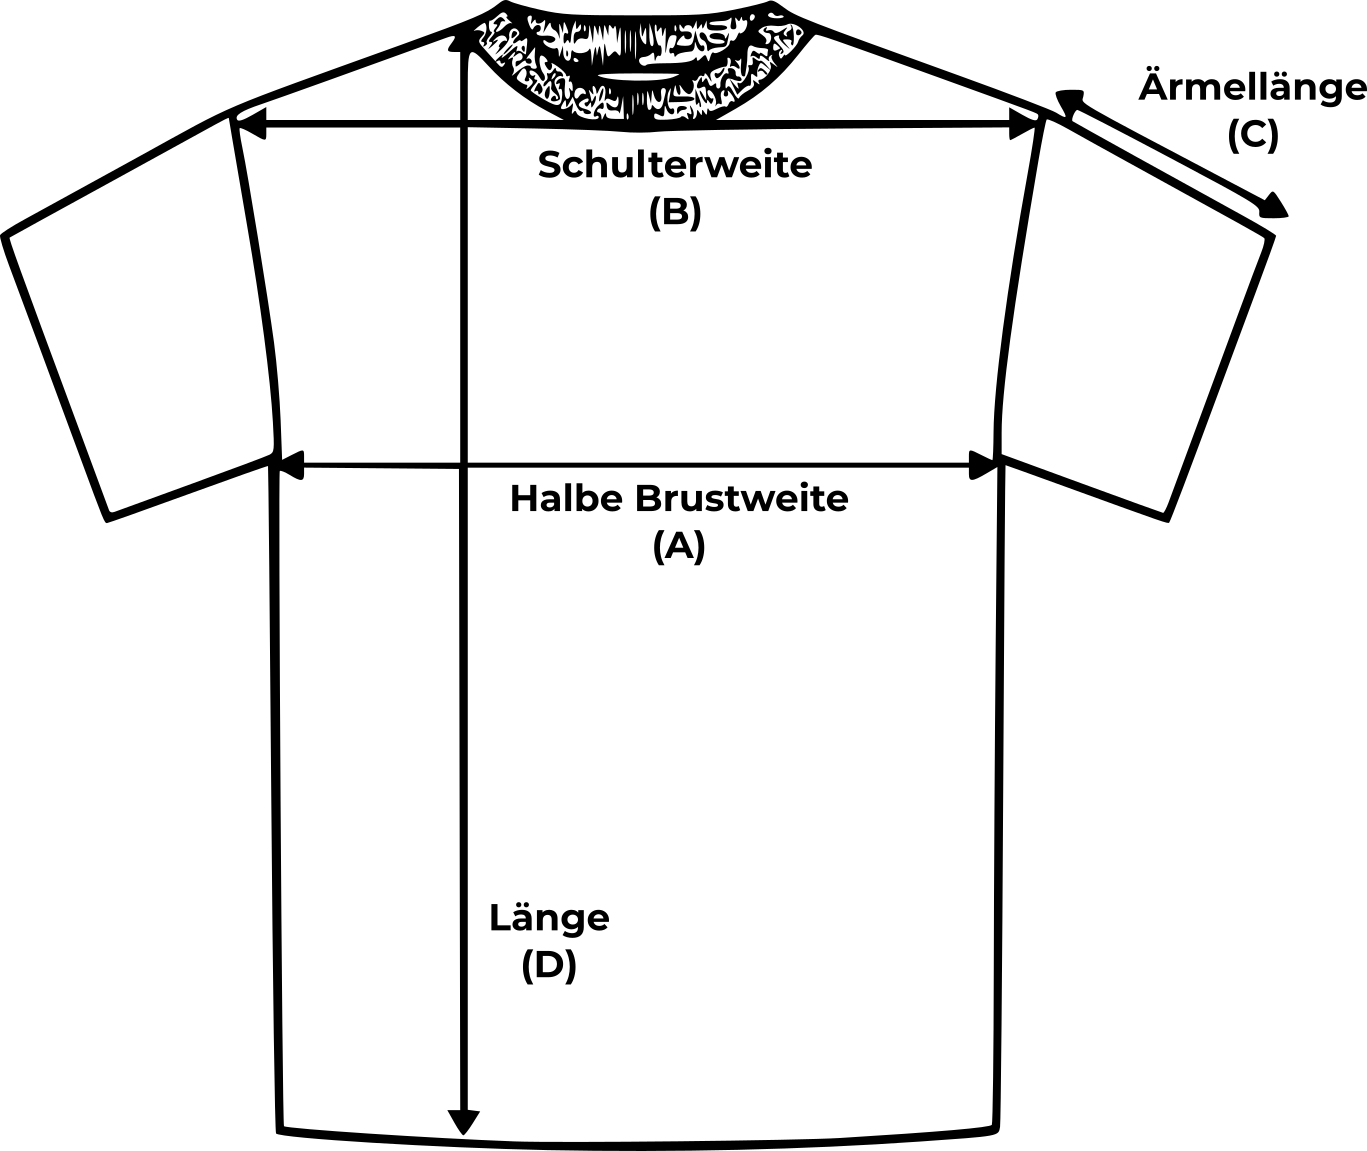
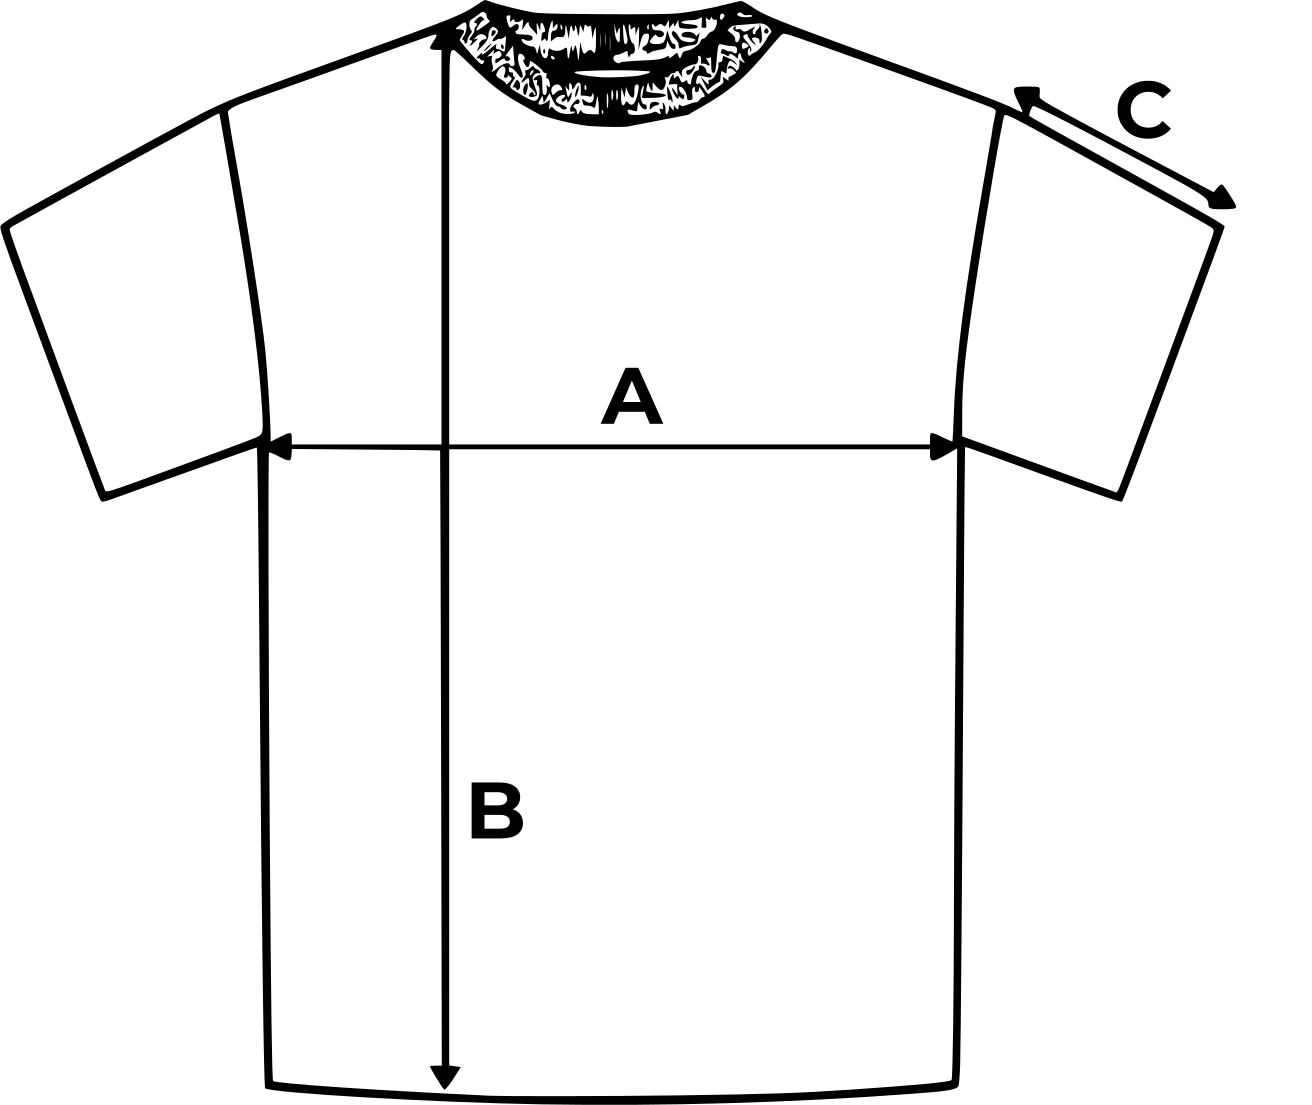
Shirts

diff --git a/_site/index.html b/_site/index.html
@@ -170,7 +170,7 @@
     							<li class="elementor-icon-list-item">
     											<a href="https://www.rewe.de/marktseite/augsburg/461642/rewe-markt-jakoberwallstrasse-9-11/" target="_blank">
 
-    										<span class="elementor-icon-list-text">REWE Gesell | Jakoberwallstraße 9-11, 86153 Augsburg&nbsp;| Work Export &nbsp; &nbsp;</span>
+    										<span class="elementor-icon-list-text">REWE Reincke | Jakoberwallstraße 9-11, 86153 Augsburg&nbsp;| Work Export &nbsp; &nbsp;</span>
     											</a>
     									</li>
     								<li class="elementor-icon-list-item">
@@ -215,12 +215,12 @@
         }
       </style>
       <table class="tableizer-table">
-      <thead><tr class="tableizer-firstrow"><th>Größe</th><th>Brust (A)</th><th>Schulter (B)</th><th>Ärmel (C)</th><th>Länge (D)</th></tr></thead><tbody>
-       <tr><td>S</td><td>54 cm</td><td>54 cm</td><td>20,5 cm</td><td>72,5 cm</td></tr>
-       <tr><td>M</td><td>58 cm</td><td>56 cm</td><td>21 cm</td><td>74 cm</td></tr>
-       <tr><td>L</td><td>62 cm</td><td>58 cm</td><td>21,5 cm</td><td>75,5 cm</td></tr>
-       <tr><td>XL</td><td>66 cm</td><td>60 cm</td><td>22 cm</td><td>77 cm</td></tr>
-       <tr><td>XXL</td><td>70 cm</td><td>62 cm</td><td>22,5 cm</td><td>78,5 cm</td></tr>
+      <thead><tr class="tableizer-firstrow"><th>Größe</th><th>Brust (A)</th><th>Länge (B)</th><th>Ärmel (C)</th></tr></thead><tbody>
+       <tr><td>S</td><td>57 cm</td><td>66 cm</td><td>12 cm</td></tr>
+       <tr><td>M</td><td>60 cm</td><td>70 cm</td><td>14 cm</td></tr>
+       <tr><td>L</td><td>63 cm</td><td>73 cm</td><td>16 cm</td></tr>
+       <tr><td>XL</td><td>66 cm</td><td>75 cm</td><td>17,5 cm</td></tr>
+       <tr><td>XXL</td><td>69 cm</td><td>77 cm</td><td>19 cm</td></tr>
       </tbody></table>
       <img src="assets/img/Groessentabelle.png" alt="">
     </div>
@@ -344,7 +344,7 @@
       </div>
     </div>
       <div class="align-items-center">
-        <span class="copyright">Copyright &copy; Brauerei Goldene Gans 2024</span>
+        <span class="copyright">Copyright &copy; Brauerei Goldene Gans 2025</span>
 
         </div>
   </div>

diff --git a/_includes/portfolio_grid.html b/_includes/portfolio_grid.html
@@ -23,12 +23,12 @@
         }
       </style>
       <table class="tableizer-table">
-      <thead><tr class="tableizer-firstrow"><th>Größe</th><th>Brust (A)</th><th>Schulter (B)</th><th>Ärmel (C)</th><th>Länge (D)</th></tr></thead><tbody>
-       <tr><td>S</td><td>54 cm</td><td>54 cm</td><td>20,5 cm</td><td>72,5 cm</td></tr>
-       <tr><td>M</td><td>58 cm</td><td>56 cm</td><td>21 cm</td><td>74 cm</td></tr>
-       <tr><td>L</td><td>62 cm</td><td>58 cm</td><td>21,5 cm</td><td>75,5 cm</td></tr>
-       <tr><td>XL</td><td>66 cm</td><td>60 cm</td><td>22 cm</td><td>77 cm</td></tr>
-       <tr><td>XXL</td><td>70 cm</td><td>62 cm</td><td>22,5 cm</td><td>78,5 cm</td></tr>
+      <thead><tr class="tableizer-firstrow"><th>Größe</th><th>Brust (A)</th><th>Länge (B)</th><th>Ärmel (C)</th></tr></thead><tbody>
+       <tr><td>S</td><td>57 cm</td><td>66 cm</td><td>12 cm</td></tr>
+       <tr><td>M</td><td>60 cm</td><td>70 cm</td><td>14 cm</td></tr>
+       <tr><td>L</td><td>63 cm</td><td>73 cm</td><td>16 cm</td></tr>
+       <tr><td>XL</td><td>66 cm</td><td>75 cm</td><td>17,5 cm</td></tr>
+       <tr><td>XXL</td><td>69 cm</td><td>77 cm</td><td>19 cm</td></tr>
       </tbody></table>
       <img src="assets/img/Groessentabelle.png" alt="">
     </div>

diff --git a/_site/assets/js/agency.min.js b/_site/assets/js/agency.min.js
@@ -264,9 +264,9 @@ document.addEventListener('DOMContentLoaded', function() {
 
             function triggerLink() {
                 const valueToNumberMap = {
-                    "'70s Design": "1",
-                    "Bock Bier": "2",
-                    "'80s Logo": "3"
+                    "'70s Design": "3",
+                    "Bock Bier": "1",
+                    "'80s Logo": "2"
                 };
 
                 const selectedValue = selectElement.value;

diff --git a/assets/js/agency.min.js b/assets/js/agency.min.js
@@ -264,9 +264,9 @@ document.addEventListener('DOMContentLoaded', function() {
 
             function triggerLink() {
                 const valueToNumberMap = {
-                    "'70s Design": "1",
-                    "Bock Bier": "2",
-                    "'80s Logo": "3"
+                    "'70s Design": "3",
+                    "Bock Bier": "1",
+                    "'80s Logo": "2"
                 };
 
                 const selectedValue = selectElement.value;

diff --git a/_site/agb.html b/_site/agb.html
@@ -249,7 +249,7 @@ Auf bestehende Altersbeschränkungen wird in der jeweiligen Artikelbeschreibung 
       </div>
     </div>
       <div class="align-items-center">
-        <span class="copyright">Copyright &copy; Brauerei Goldene Gans 2024</span>
+        <span class="copyright">Copyright &copy; Brauerei Goldene Gans 2025</span>
 
         </div>
   </div>

diff --git a/_site/datenschutzerklaerung.html b/_site/datenschutzerklaerung.html
@@ -894,7 +894,7 @@ Bei Fragen zum Thema Datenschutz auf unserer Website zögern Sie bitte nicht, un
       </div>
     </div>
       <div class="align-items-center">
-        <span class="copyright">Copyright &copy; Brauerei Goldene Gans 2024</span>
+        <span class="copyright">Copyright &copy; Brauerei Goldene Gans 2025</span>
 
         </div>
   </div>

diff --git a/_site/404.html b/_site/404.html
@@ -154,7 +154,7 @@ document.getElementById("page-top").className="bg-light";
       </div>
     </div>
       <div class="align-items-center">
-        <span class="copyright">Copyright &copy; Brauerei Goldene Gans 2024</span>
+        <span class="copyright">Copyright &copy; Brauerei Goldene Gans 2025</span>
 
         </div>
   </div>

diff --git a/_site/Impressum.html b/_site/Impressum.html
@@ -134,7 +134,7 @@
       </div>
     </div>
       <div class="align-items-center">
-        <span class="copyright">Copyright &copy; Brauerei Goldene Gans 2024</span>
+        <span class="copyright">Copyright &copy; Brauerei Goldene Gans 2025</span>
 
         </div>
   </div>

diff --git a/_site/danke.html b/_site/danke.html
@@ -130,7 +130,7 @@
       </div>
     </div>
       <div class="align-items-center">
-        <span class="copyright">Copyright &copy; Brauerei Goldene Gans 2024</span>
+        <span class="copyright">Copyright &copy; Brauerei Goldene Gans 2025</span>
 
         </div>
   </div>

diff --git a/_site/widerrufserklaerung.html b/_site/widerrufserklaerung.html
@@ -179,7 +179,7 @@
       </div>
     </div>
       <div class="align-items-center">
-        <span class="copyright">Copyright &copy; Brauerei Goldene Gans 2024</span>
+        <span class="copyright">Copyright &copy; Brauerei Goldene Gans 2025</span>
 
         </div>
   </div>
